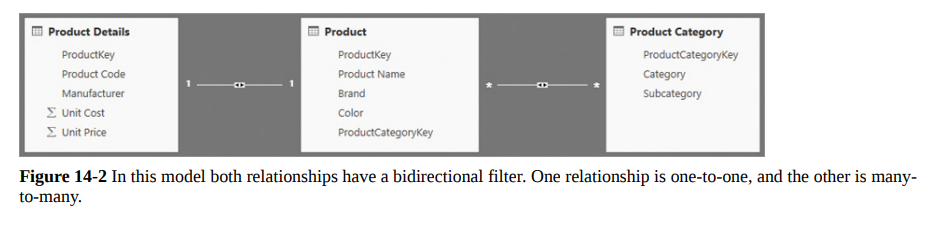
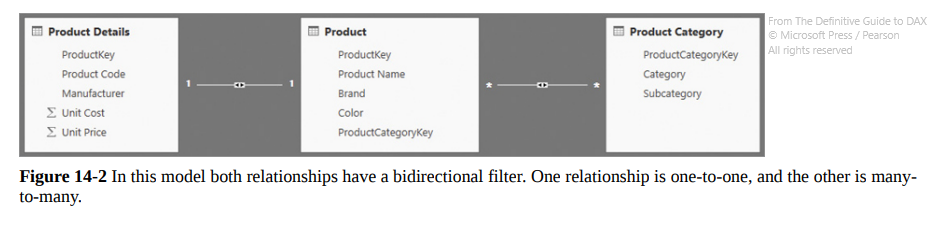
added attribution to images

Changed region(s): [[0.8099, 0.0614, 0.9968, 0.2456]]

diff --git a/_posts/2022-09-28-personal-notes-about-dax-definitive-guide.md b/_posts/2022-09-28-personal-notes-about-dax-definitive-guide.md
@@ -13,7 +13,6 @@ tags:
 Disclaimer: this will be a long, long post, written in my own way. It’s essentially a dump of my personal notes, taken when reading [“The Definitive Guide to DAX”](https://www.sqlbi.com/books/the-definitive-guide-to-dax-2nd-edition/) written by Alberto Ferrari and Marco Russo. At my new workplace I’m going to use PowerBI and DAX a lot, thus my boss suggested me to read the book.
 
 Yep, it is big and very technical, with 700+ pages rich in contents, but trust me, that’s the “Bible”, a must-read for anyone willing to work with PowerBI and DAX. There’s everything you need, from the basics commands to the most advanced functions, with complex topics such as context transition, query plan, and storage engine. Many examples, in addition, apart from explaining every concept introduced in the book (which focuses a lot on giving clear, practical explanations) explore edge cases that gave me lots of headaches in the past. Further examples and insights can be found on the authors’ site [SQLBI](https://www.sqlbi.com/). 
-I'm using a few screenshots from the book for educational purposes, all rights are reserved to the authors/copyright holders, please contact me in case of issues.
 
 It took me several weeks for finishing it, but I felt extremely prepared after the experience and grateful for such a useful resource that will be fundamental in my future. The authors did a terrific job and I am happy to support them and share a positive feedback of their work on my blog. Knowing that my memory is terrible I took accurate notes of everything I found interesting and what I have to read again. I hope it will help you as well!
 
